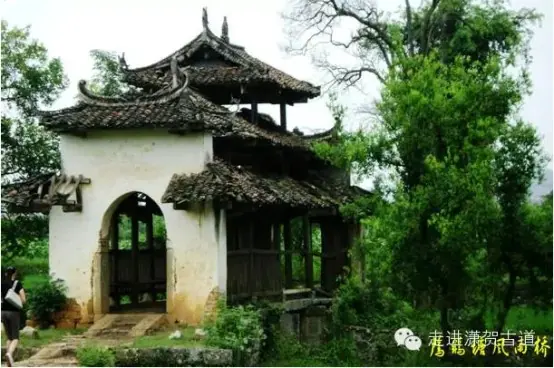
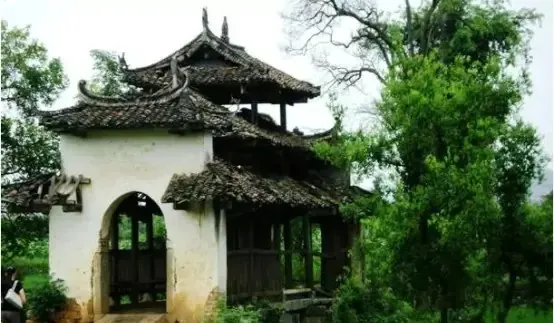
桥谱照片裁掉右下角水印带（02–27），来源说明同步

diff --git a/themes/05-风雨桥.html b/themes/05-风雨桥.html
@@ -1,4 +1,4 @@
-<!DOCTYPE html>
+<!DOCTYPE html>
 <html lang="zh-CN" class="no-js">
 <head>
 <meta charset="utf-8">
@@ -15,7 +15,7 @@ if(location.search.indexOf('arrive=')>-1){
       if(v)v.style.display='none';
       if(t)t.style.display='none';
     },680);
-  },6000);
+  },2500);
 }
 </script>
 <meta name="viewport" content="width=device-width, initial-scale=1">
@@ -194,7 +194,7 @@ if(location.search.indexOf('arrive=')>-1){
               </table>
               </div>
             </details>
-            <p class="atlas-note"><b>图版：</b>25 张来自贺州市生态环境局《富川风雨桥摄影展》（摄影：谭玉婷，2021），回澜一张由项目自备（2026-11-07），长塘迴龙一张据澎湃新闻《贺州这 27 座风雨桥》。原图带水印，版权未获书面授权，仅作毕业设计非商业展示，公开上线前须替换或取得许可。<b>文字：</b>每座桥的说明据富川县人民政府官网（2024-03-19）逐座整理，有删节，不改写事实。</p>
+            <p class="atlas-note"><b>图版：</b>25 张来自贺州市生态环境局《富川风雨桥摄影展》（摄影：谭玉婷，2021），回澜一张由项目自备（2026-11-07），长塘迴龙一张据澎湃新闻《贺州这 27 座风雨桥》。原图右下角的水印带已裁切，版权未获书面授权，仅作毕业设计非商业展示，公开上线前须替换或取得许可。<b>文字：</b>每座桥的说明据富川县人民政府官网（2024-03-19）逐座整理，有删节，不改写事实。</p>
           </div>
         </div>
       </div>
@@ -341,7 +341,7 @@ if(location.search.indexOf('arrive=')>-1){
           <tr><td class="g">艺术特征研究</td><td>《富川瑶乡回澜、青龙风雨桥艺术特征分析》</td><td>学术文献，需经学校图书馆检索</td></tr>
           <tr><td class="g">群体认知</td><td>#富川回澜风雨桥 单条内容获 16.2 万点赞（2024-11）</td><td><a class="src-link" href="https://www.douyin.com/video/7438907555595799844" target="_blank" rel="noopener noreferrer">抖音</a>；仅作公众关注度参考，不作学术引用</td></tr>
           <tr><td class="g">二十七座名录</td><td>27 座桥的桥名、所在、始建与结构；明代 6 座、清早中期 11 座、清后期 10 座</td><td><a class="src-link" href="http://www.gxfc.gov.cn/fcgk/jdjj/t10824361.shtml" target="_blank" rel="noopener noreferrer">富川县人民政府《富川风雨桥（27 座）》</a>（2024-03-19）</td></tr>
-          <tr><td class="g">桥谱图版</td><td>27 座桥照片：25 张据贺州市生态环境局《富川风雨桥摄影展》（摄影：谭玉婷，2021），回澜一张由项目自备（2026-11-07），长塘迴龙一张据澎湃新闻《贺州这 27 座风雨桥》；版权未获书面授权，仅作非商业展示</td><td><a class="src-link" href="http://sthjj.gxhz.gov.cn/zfxxgk/fdzdgknr/qthjywxx/t8056524.shtml" target="_blank" rel="noopener noreferrer">贺州市生态环境局</a>；回澜：项目自备；澎湃新闻（原链接待补）</td></tr>
+          <tr><td class="g">桥谱图版</td><td>27 座桥照片：25 张据贺州市生态环境局《富川风雨桥摄影展》（摄影：谭玉婷，2021），回澜一张由项目自备（2026-11-07），长塘迴龙一张据澎湃新闻《贺州这 27 座风雨桥》；原图右下角水印带已裁切，版权未获书面授权，仅作非商业展示</td><td><a class="src-link" href="http://sthjj.gxhz.gov.cn/zfxxgk/fdzdgknr/qthjywxx/t8056524.shtml" target="_blank" rel="noopener noreferrer">贺州市生态环境局</a>；回澜：项目自备；澎湃新闻（原链接待补）</td></tr>
         </tbody>
       </table>
       <p class="ledger-fine">⚠ 早期资料中曾把回澜桥写作「双拱」，与官方档案不符，应以三孔石拱为准。<br>⚠ 回澜桥名典故的引文，网络与部分词条多作「会百川而东之，回狂澜之即倒」，与《进学解》原文「障百川而东之，回狂澜于既倒」不符，本页已按原文订正。<br>⚠ 回澜桥长度有两种记法：全长 37.54 米（广西壮族自治区图书馆），桥长 30.43 米；本页说「全长」。</p>
@@ -364,3 +364,6 @@ if(location.search.indexOf('arrive=')>-1){
 <script src="assets/motif-entry.js" data-motif-index="3" defer></script>
 </body>
 </html>
+
+
+

diff --git a/themes/assets/bridge/CREDITS.md b/themes/assets/bridge/CREDITS.md
@@ -12,6 +12,12 @@
 - 1 张（`27.webp`，长塘迴龙）：澎湃新闻《贺州这 27 座风雨桥》
   （原链接待补，见 `ui/四章交互原型/img/bridge/27-长塘迴龙-来源.txt`）
 
+## 水印处理
+
+原素材右下角带「走进潇贺古道」微信水印。2026-11-07 对 02–27 统一裁掉底部 12% 的画面
+（水印带），再按质量 80 转 WebP；01 为项目自备，无水印。裁切只去画面底部一条，
+桥体本身未修图、未重绘。
+
 ## 授权
 
 版权未获书面授权。按站内既有做法，仅用于毕业设计非商业展示，页面已逐张标注来源；
